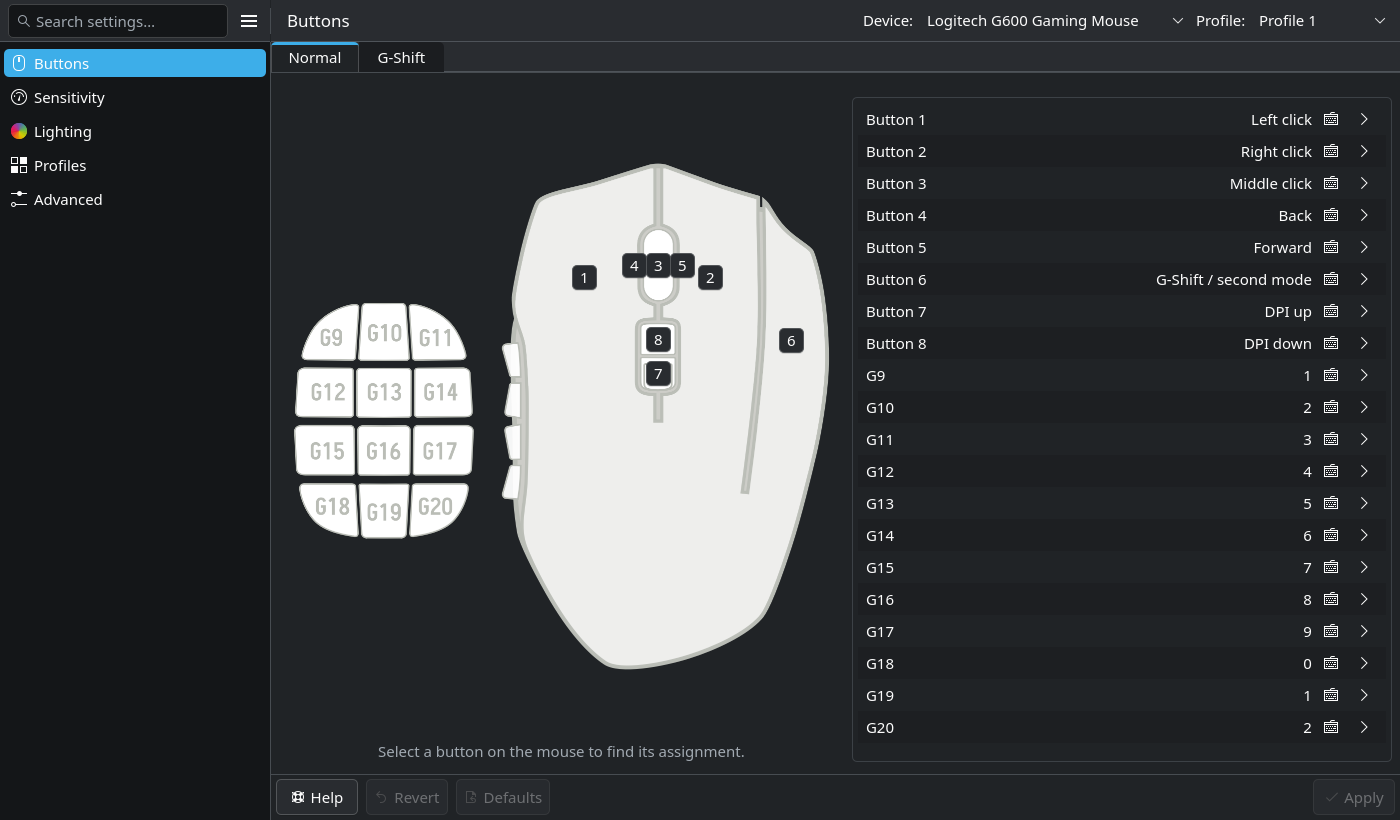
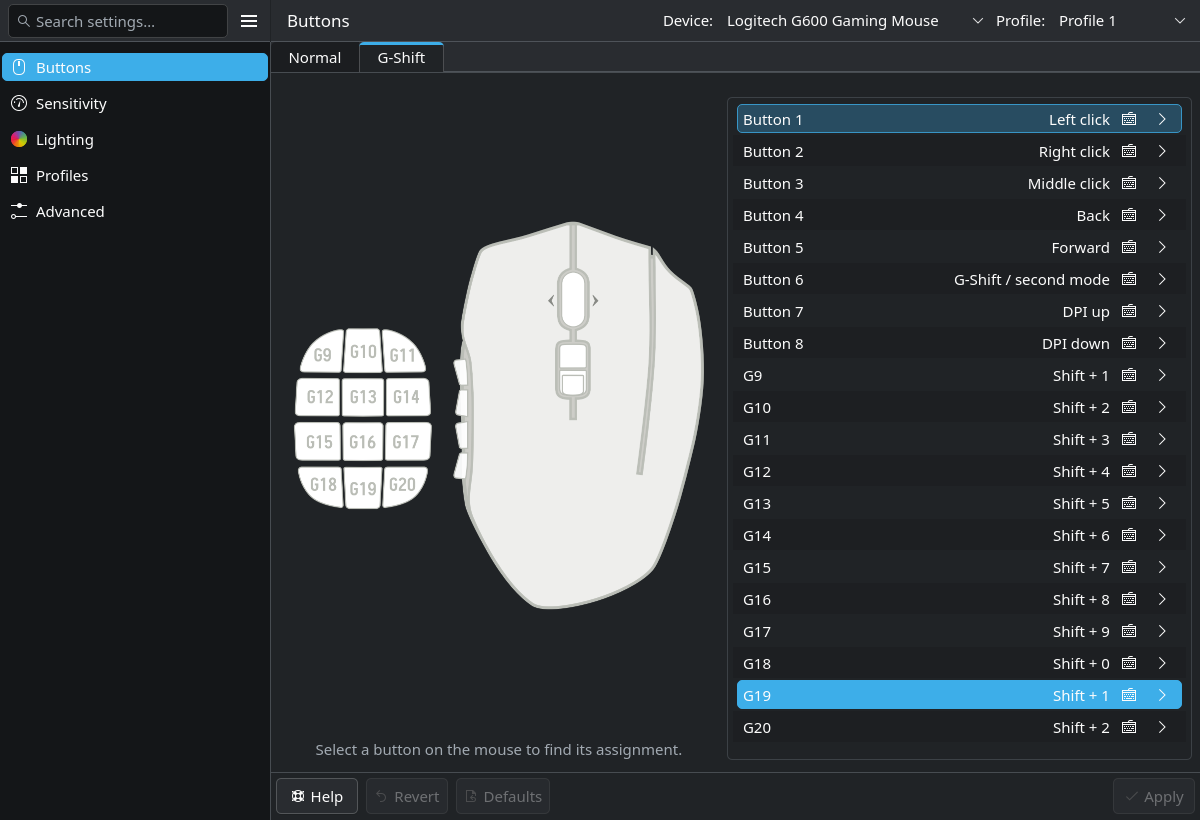
Fix diagram hover feedback and remove redundant overlays
Remove the header separator fragment and numbered diagram buttons. Keep native SVG pointer targets, row selection, and explicit keyboard selection separate so blank-space hover never falls back to left click. Verify light/dark activation, narrow G600 targets, and accessible keyboard navigation.

diff --git a/qt_piper/qml/Main.qml b/qt_piper/qml/Main.qml
@@ -207,6 +207,7 @@ ApplicationWindow {
     property int selectedButton: -1
     property int selectedLed: -1
     property string hoverTarget: ""
+    property bool keyboardTargetActive: false
     property var device: backend.selectedDevice
     property var profile: backend.selectedProfile
     property var buttons: profile.buttons || []
@@ -219,6 +220,9 @@ ApplicationWindow {
     property var bounds: diagram.deviceBounds || ({x:0,y:0,width:diagram.width,height:diagram.height})
     property string selectedTarget: page === 2 ? (selectedLed < 0 ? "" : "led"+selectedLed) : (selectedButton < 0 ? "" : "button"+(shifted ? selectedButton-21 : selectedButton))
     property bool hasSelection: page===2 ? selectedLed>=0 : selectedButton>=0
+    // Pointer feedback ends at a miss. A remembered row selection is not a hover.
+    readonly property string diagramHighlight: hoverTarget || (diagramArea.activeFocus && keyboardTargetActive ? selectedTarget : "")
+    readonly property string selectedTargetDescription: !hasSelection ? "No target selected." : page===2 ? "Lighting zone "+(selectedLed+1) : "Button "+(buttonAt(selectedButton).physicalIndex+1)+", "+(buttonAt(selectedButton).actionLabel||"No assignment")
     property bool discardOnClose: false
     function buttonAt(index) { for(let b of buttons) if(b.index===index) return b; return {} }
     function ledAt(index) { for(let l of leds) if(l.index===index) return l; return {} }
@@ -268,13 +272,14 @@ ApplicationWindow {
         }
     }
     function selectDiagramTarget(index) {
+        keyboardTargetActive=false;
         if (page===2) { chooseTarget(index); return; }
         if (buttonAt(index).index===undefined) return;
         selectedButton=index;
         root.scheduleAssignmentReveal(index);
     }
-    function nextTarget(direction) { let list=diagram.hotspots||[]; if(!list.length)return; let idx=list.findIndex(function(h){return h.index===(page===2?selectedLed:selectedButton)}); idx=(idx+direction+list.length)%list.length; if(page===2)selectedLed=list[idx].index;else { selectedButton=list[idx].index; root.scheduleAssignmentReveal(root.selectedButton); } }
-    function clearSelection() { selectedButton=-1; selectedLed=-1 }
+    function nextTarget(direction) { let list=diagram.hotspots||[]; if(!list.length)return; hoverTarget=""; keyboardTargetActive=true; let idx=list.findIndex(function(h){return h.index===(page===2?selectedLed:selectedButton)}); idx=idx<0 ? (direction>0 ? 0 : list.length-1) : (idx+direction+list.length)%list.length; if(page===2)selectedLed=list[idx].index;else { selectedButton=list[idx].index; root.scheduleAssignmentReveal(root.selectedButton); } }
+    function clearSelection() { selectedButton=-1; selectedLed=-1; hoverTarget=""; keyboardTargetActive=false }
     function revealSettingsFocus(scroll) {
         let item = root.activeFocusItem;
         if (!item || !scroll.visible) return;
@@ -531,7 +536,6 @@ ApplicationWindow {
         Item {
             objectName: "paneDivider"
             Layout.fillHeight: true; Layout.preferredWidth: 1
-            Kirigami.Separator { width: parent.width; y: Kirigami.Units.largeSpacing; height: root.paneHeaderHeight-Kirigami.Units.largeSpacing*2 }
             Kirigami.Separator { width: parent.width; y: root.paneHeaderHeight; height: parent.height-y }
         }
         Item {
@@ -657,6 +661,8 @@ ApplicationWindow {
                                 id: diagramArea; objectName: "diagramArea"; Layout.fillWidth: true; Layout.fillHeight: true; clip: true; activeFocusOnTab: true
                                 Accessible.role: Accessible.Button
                                 Accessible.name: root.page===2 ? "Mouse diagram. Arrow keys select a lighting zone; Enter edits it." : "Mouse diagram. Arrow keys select a button; Enter edits it."
+                                Accessible.description: root.selectedTargetDescription
+                                onActiveFocusChanged: if (!activeFocus) root.keyboardTargetActive=false
                                 Keys.onRightPressed: root.nextTarget(1)
                                 Keys.onLeftPressed: root.nextTarget(-1)
                                 Keys.onDownPressed: root.nextTarget(1)
@@ -669,53 +675,15 @@ ApplicationWindow {
                                     width: root.diagram.width*diagramArea.scaleFactor; height: root.diagram.height*diagramArea.scaleFactor
                                     x: (diagramArea.width-root.bounds.width*diagramArea.scaleFactor)/2-root.bounds.x*diagramArea.scaleFactor
                                     y: (diagramArea.height-root.bounds.height*diagramArea.scaleFactor)/2-root.bounds.y*diagramArea.scaleFactor
-                                    source: root.diagram.source ? root.diagram.source+"&leaders=0&highlight="+(root.hoverTarget||root.selectedTarget) : ""
+                                    source: root.diagram.source ? root.diagram.source+"&leaders=0&highlight="+root.diagramHighlight : ""
                                     sourceSize.width: Math.ceil(width*2); sourceSize.height: Math.ceil(height*2); fillMode: Image.Stretch; smooth: true; cache: false
                                     MouseArea {
                                         anchors.fill: parent; hoverEnabled: true; cursorShape: Qt.ArrowCursor
-                                        onPositionChanged: function(mouse) { let h=diagrams.hitTarget(device.svg||"",root.page===2?"leds":"buttons",mouse.x/diagramArea.scaleFactor,mouse.y/diagramArea.scaleFactor,root.diagramCount,root.shifted); root.hoverTarget=h.id||"" }
-                                        onExited: root.hoverTarget=""
+                                        onPositionChanged: function(mouse) { root.keyboardTargetActive=false; let h=diagrams.hitTarget(device.svg||"",root.page===2?"leds":"buttons",mouse.x/diagramArea.scaleFactor,mouse.y/diagramArea.scaleFactor,root.diagramCount,root.shifted); root.hoverTarget=h.id||"" }
+                                        onExited: { root.hoverTarget=""; root.keyboardTargetActive=false }
                                         onClicked: function(mouse) { let h=diagrams.hitTarget(device.svg||"",root.page===2?"leds":"buttons",mouse.x/diagramArea.scaleFactor,mouse.y/diagramArea.scaleFactor,root.diagramCount,root.shifted); if(h.index!==undefined && h.index>=0)root.selectDiagramTarget(h.index) }
                                     }
-                                    Repeater {
-                                        model: root.diagram.hotspots||[]
-                                        delegate: Button {
-                                            required property var modelData
-                                            objectName: "diagramTarget"+modelData.index
-                                            visible: root.page===2 || !device.hasGShift || modelData.physicalIndex<8
-                                            readonly property bool compactBadges: root.page===1 && device.hasGShift===true && diagramArea.width<Kirigami.Units.gridUnit*28
-                                            readonly property var wheelTarget: (root.diagram.hotspots||[]).find(function(target) { return target.physicalIndex===2; }) || modelData
-                                            readonly property var dpiDownTarget: (root.diagram.hotspots||[]).find(function(target) { return target.physicalIndex===6; }) || modelData
-                                            x: {
-                                                let center=modelData.centerX*diagramArea.scaleFactor;
-                                                if (compactBadges) {
-                                                    let wheel=wheelTarget.centerX*diagramArea.scaleFactor;
-                                                    if (modelData.physicalIndex===3) center=wheel-width-Kirigami.Units.smallSpacing;
-                                                    else if (modelData.physicalIndex===4) center=wheel+width+Kirigami.Units.smallSpacing;
-                                                    else if (modelData.physicalIndex===0) center=Math.min(center,wheel-width-Kirigami.Units.smallSpacing);
-                                                    else if (modelData.physicalIndex===1) center=Math.max(center,wheel+width+Kirigami.Units.smallSpacing);
-                                                } else if (device.hasGShift && modelData.physicalIndex===3) center-=8;
-                                                else if (device.hasGShift && modelData.physicalIndex===4) center+=8;
-                                                return center-width/2;
-                                            }
-                                            y: {
-                                                let center=modelData.centerY*diagramArea.scaleFactor;
-                                                // Keep the detached wheel badges outside the artwork so they
-                                                // cannot intercept another physical SVG button's hit mask.
-                                                if (compactBadges && modelData.physicalIndex>=2 && modelData.physicalIndex<=4) return root.bounds.y*diagramArea.scaleFactor-height-Kirigami.Units.smallSpacing;
-                                                if (compactBadges && modelData.physicalIndex===7) center=Math.min(center,dpiDownTarget.centerY*diagramArea.scaleFactor-height-Kirigami.Units.smallSpacing);
-                                                return center-height/2;
-                                            }
-                                            width: Kirigami.Units.gridUnit*1.5; height: width
-                                            text: root.page===2 ? "L"+(modelData.index+1) : String(modelData.physicalIndex+1)
-                                            Accessible.name: root.page===2 ? "Lighting zone "+(modelData.index+1) : "Button "+(modelData.physicalIndex+1)+", "+(root.buttonAt(modelData.index).actionLabel||"No assignment")
-                                            Accessible.description: root.page===2 ? "Edit lighting zone" : "Select and reveal this button's assignment."
-                                            checkable: true; checked: root.selectedTarget===modelData.id
-                                            onClicked: root.selectDiagramTarget(modelData.index)
-                                            onHoveredChanged: root.hoverTarget=hovered?modelData.id:""
-                                            ToolTip.visible: hovered; ToolTip.text: root.page===2 ? "Edit lighting zone" : root.buttonAt(modelData.index).actionLabel||"Edit assignment"
-                                        }
-                                    }
+
                                 }
                             }
                             Label { Layout.fillWidth: true; wrapMode: Text.WordWrap; horizontalAlignment: Text.AlignHCenter; text: root.page===2 ? "Select a lighting zone on the mouse or in the list to edit." : "Select a button on the mouse to find its assignment."; color: root.subtle }
@@ -770,7 +738,7 @@ ApplicationWindow {
                                                 Keys.onReturnPressed: root.chooseTarget(modelData.index)
                                                 Keys.onEnterPressed: root.chooseTarget(modelData.index)
                                                 onActiveFocusChanged: if(activeFocus) root.revealAssignment(modelData.index)
-                                                onHoveredChanged: root.hoverTarget=hovered ? (root.page===2 ? "led"+modelData.index : "button"+modelData.physicalIndex) : ""
+                                                onHoveredChanged: { if(hovered) root.keyboardTargetActive=false; root.hoverTarget=hovered ? (root.page===2 ? "led"+modelData.index : "button"+modelData.physicalIndex) : "" }
                                                 contentItem: ColumnLayout {
                                                     spacing: Kirigami.Units.smallSpacing
                                                 RowLayout {

diff --git a/tools/verify-kde-ui.py b/tools/verify-kde-ui.py
@@ -1205,57 +1205,169 @@ def scenario_narrow_targets(h):
     h.window.resize(960, 700)
     h.settle(200)
     checked = []
+    before = h.view_snapshot()
     for shifted in [False, True]:
         h.set_layer(shifted)
-        indices = list(range(21, 29) if shifted else range(8))
-        rectangles = []
+        indices = list(range(21, 41) if shifted else range(20))
+        assert not any(
+            item.objectName().startswith("diagramTarget")
+            for item in h.window.findChildren(original_ui.QObject)
+        ), "Diagram artwork must not have numbered button overlays"
         for index in indices:
-            badge = h.find("diagramTarget" + str(index))
-            assert h.fully_visible(badge), f"Narrow diagram badge {index} is clipped"
-            origin = badge.mapToScene(QPointF(0, 0))
-            rect = (
-                origin.x(),
-                origin.y(),
-                origin.x() + badge.width(),
-                origin.y() + badge.height(),
-            )
-            for other_index, other in rectangles:
-                overlap_x = min(rect[2], other[2]) - max(rect[0], other[0])
-                overlap_y = min(rect[3], other[3]) - max(rect[1], other[1])
-                assert (
-                    overlap_x <= 0.5 or overlap_y <= 0.5
-                ), f"Narrow badges {index} and {other_index} overlap by {overlap_x}×{overlap_y}"
-            rectangles.append((index, rect))
-            # A numbered badge may sit outside artwork, or over its own SVG
-            # region, but must not cover a different physical target's center.
-            diagram = h.find("mouseDiagram")
-            svg = h.backend.selectedDevice["svg"]
-            scale = diagram.width() / h.catalog.document(svg).width
-            center = diagram.mapFromScene(
-                badge.mapToScene(QPointF(badge.width() / 2, badge.height() / 2))
-            )
-            underlying = h.catalog.hitTest(
-                svg,
-                "buttons",
-                center.x() / scale,
-                center.y() / scale,
-                len(h.backend.selectedProfile["buttons"]),
-                shifted,
-            )
-            assert underlying in [
-                -1,
-                index,
-            ], f"Badge {index} covers different SVG target {underlying}"
-        for index in indices:
+            h.select_target(index)
+            checked.append(index)
+        for index in [indices[0], indices[-1]]:
             h.edit_target(index)
             h.back(discard=True)
-            h.click("diagramTarget" + str(index))
+        h.focus_with_tab("diagramArea")
+        for index in indices:
+            h.key(Qt.Key.Key_Right)
             h.assert_selected(index)
-            h.edit_row(index)
-            h.back(discard=True)
-            checked.append(index)
-    assert not h.backend.dirty
-    return {"narrow_svg_and_badge_targets": checked, "badge_overlap": False}
+            assert h.window.property("diagramHighlight") == "button" + str(
+                h.button(index)["physicalIndex"]
+            )
+        h.key(Qt.Key.Key_Return)
+        assert h.find("assignmentPage").property("buttonIndex") == indices[-1]
+        h.back(discard=True)
+    h.assert_view_unchanged(before)
+    return {
+        "narrow_svg_targets": checked,
+        "keyboard_targets": checked,
+        "numbered_overlays": False,
+    }
+
+
+def scenario_hover_feedback(h):
+    from PySide6.QtCore import QPoint
+    from PySide6.QtQuick import QQuickWindow
+
+    h.select_device("G600")
+    before = h.view_snapshot()
+    checked = []
+    for dark in [False, True]:
+        h.desktop_style.setDark(dark)
+        h.window.resize(1200, 820)
+        h.settle(150)
+        for shifted in [False, True]:
+            h.set_layer(shifted)
+            first, last = (21, 40) if shifted else (0, 19)
+            for index in [first, last]:
+                h.select_target(index)
+                target_id = "button" + str(h.button(index)["physicalIndex"])
+                assert h.window.property("hoverTarget") == target_id
+                assert h.window.property("diagramHighlight") == target_id
+                area = h.find("diagramArea")
+                diagram = h.find("mouseDiagram")
+                doc = h.catalog.document(h.backend.selectedDevice["svg"])
+                scale = diagram.width() / doc.width
+                # A blank point inside the SVG's bounding box exercises hit-test
+                # misses, independently of MouseArea exit events.
+                blank = None
+                for y in range(10, int(area.height()) - 10, 10):
+                    for x in range(10, int(area.width()) - 10, 10):
+                        scene = area.mapToScene(QPointF(x, y)).toPoint()
+                        local = diagram.mapFromScene(QPointF(scene))
+                        if not (
+                            0 < local.x() < diagram.width()
+                            and 0 < local.y() < diagram.height()
+                        ):
+                            continue
+                        if (
+                            h.catalog.hitTest(
+                                h.backend.selectedDevice["svg"],
+                                "buttons",
+                                local.x() / scale,
+                                local.y() / scale,
+                                len(h.backend.selectedProfile["buttons"]),
+                                shifted,
+                            )
+                            == -1
+                        ):
+                            blank = scene
+                            break
+                    if blank is not None:
+                        break
+                assert blank is not None
+                for point in [blank, QPoint(1100, 40)]:
+                    QTest.mouseMove(h.window, h.target_point("buttons", index))
+                    h.settle(40)
+                    QTest.mouseMove(h.window, point)
+                    h.settle(80)
+                    assert h.window.property("hoverTarget") == ""
+                    assert h.window.property("diagramHighlight") == ""
+                    assert h.window.property("selectedButton") == index
+                    assert h.find("buttonAssignment" + str(index)).property(
+                        "highlighted"
+                    )
+                    QTest.mouseClick(
+                        h.window,
+                        Qt.MouseButton.LeftButton,
+                        Qt.KeyboardModifier.NoModifier,
+                        blank,
+                    )
+                    h.settle(80)
+                    assert h.window.property("selectedButton") == index
+                    assert h.window.property("diagramHighlight") == ""
+                checked.append({"dark": dark, "shifted": shifted, "index": index})
+            # Tab does not invent a target. Arrow keys deliberately select one.
+            h.set_layer(not shifted)
+            h.set_layer(shifted)
+            h.focus_with_tab("diagramArea")
+            assert h.window.property("selectedButton") == -1
+            assert h.window.property("diagramHighlight") == ""
+            h.key(Qt.Key.Key_Left)
+            h.assert_selected(last)
+            assert h.window.property("diagramHighlight") == "button19"
+            interface = QAccessible.queryAccessibleInterface(h.find("diagramArea"))
+            assert interface.text(QAccessible.Text.Description) == h.window.property(
+                "selectedTargetDescription"
+            )
+            row = h.find("buttonAssignment" + str(first))
+            row_point = row.mapToScene(
+                QPointF(row.width() / 2, row.height() / 2)
+            ).toPoint()
+            QTest.mouseMove(h.window, row_point)
+            h.settle(80)
+            assert h.window.property("diagramHighlight") == "button0"
+            QTest.mouseMove(h.window, QPoint(1100, 40))
+            h.settle(80)
+            assert h.window.property("diagramHighlight") == ""
+            assert h.window.property("selectedButton") == last
+            h.key(Qt.Key.Key_Left)
+            assert h.window.property("diagramHighlight") == "button18"
+            h.key(Qt.Key.Key_Tab)
+            assert not h.find("diagramArea").hasActiveFocus()
+            assert h.window.property("diagramHighlight") == ""
+            h.capture(
+                "hover-none-"
+                + ("dark" if dark else "light")
+                + ("-gshift" if shifted else "-normal")
+            )
+        h.window.requestActivate()
+        h.settle(150)
+        assert h.window.isActive()
+        h.capture(("dark" if dark else "light") + "-active-clean-header")
+        other = QQuickWindow()
+        try:
+            other.resize(100, 100)
+            other.show()
+            other.requestActivate()
+            h.settle(200)
+            assert not h.window.isActive()
+            h.capture(("dark" if dark else "light") + "-inactive-clean-header")
+        finally:
+            other.close()
+        h.window.requestActivate()
+        h.settle(100)
+    h.assert_view_unchanged(before)
+    h.interactions.append(
+        {"action": "verify_native_hover_and_window_activation", "cases": checked}
+    )
+    return {
+        "hover_miss_and_exit_cases": checked,
+        "keyboard_none_and_reverse_selection": True,
+        "view_only": True,
+    }
 
 
 def scenario_minimum_size(h):
@@ -1965,7 +2077,7 @@ def scenario_hig_accessibility(h):
         for index in range(21, 29) if shifted else range(8):
             button = h.button(index)
             accessible(
-                "diagramTarget" + str(index),
+                "buttonAssignment" + str(index),
                 f"Button {button['physicalIndex'] + 1}, {button['actionLabel']}",
             )
     h.click("sensitivityTab")
@@ -2686,6 +2798,7 @@ SCENARIOS = {
     "all_targets": scenario_all_targets,
     "selection_reveal": scenario_selection_reveal,
     "narrow_targets": scenario_narrow_targets,
+    "hover_feedback": scenario_hover_feedback,
     "minimum_size": scenario_minimum_size,
     "search": scenario_search,
     "footer": scenario_footer,

diff --git a/tests/qt/test_kde_ui.py b/tests/qt/test_kde_ui.py
@@ -21,6 +21,7 @@ SCENARIOS = [
     "all_targets",
     "selection_reveal",
     "narrow_targets",
+    "hover_feedback",
     "minimum_size",
     "search",
     "footer",

diff --git a/README.md b/README.md
@@ -13,6 +13,7 @@ A native **Qt 6 / KDE Kirigami** mouse-configuration frontend using ratbagd's D-
 - Assignment child pages offer a full-width visual event list. Quick chord recording stays on the main Buttons overview. Add… configures a new immutable event in a searchable native picker; confirm with OK, then reorder or remove events in the list. Direct keyboard/mouse assignments also use searchable value pickers. Invalid or device-unencodable sequences remain local and block Apply; canceling a picker makes no change.
 - Scoped local drafts, asynchronous ratbagd writes, reconnect/error states and unsaved-navigation protection. Main Buttons Revert/Apply affects pending assignments in the selected profile. Each child assignment and settings page has its own Reset/Apply scope.
 - Native KDE-style sidebar navigation, Kirigami components, KDE desktop controls, Breeze icons and light/dark schemes. The search/navigation pane and section/content pane have separate Kirigami headers and an aligned divider, following the public-component structure used by KDE System Settings.
+- Mouse artwork uses its SVG hit regions without numbered control overlays. Hover feedback clears on blank space or pointer exit; clicking still selects and reveals the assignment row. Tab to the diagram, use arrow keys to select a target, and press Enter to edit it.
 - Search sections or individual assignments using the top-left search field (Ctrl+F). Matching buttons appear as compact submenu entries under Buttons, with minimal Normal/G-Shift context. Activation switches layer and reveals the assignment without dismissing the query or results. Results follow the selected device/profile; changing or clearing the query updates them.
 
 The G600 fixture models its actual restrictions: reserved index 20 is excluded; shifted assignments use indices 21–40; unsupported profile renaming, stage disabling, independent X/Y DPI and LED brightness are disabled. Its macro support is limited to a single encodable non-modifier key with modifiers, including the reserved-zero representation of a modifier-only chord. Unencodable G600 keycodes are rejected; LED effect durations use whole seconds from 0 to 15. The separate generic fixture exercises broader daemon capabilities.
